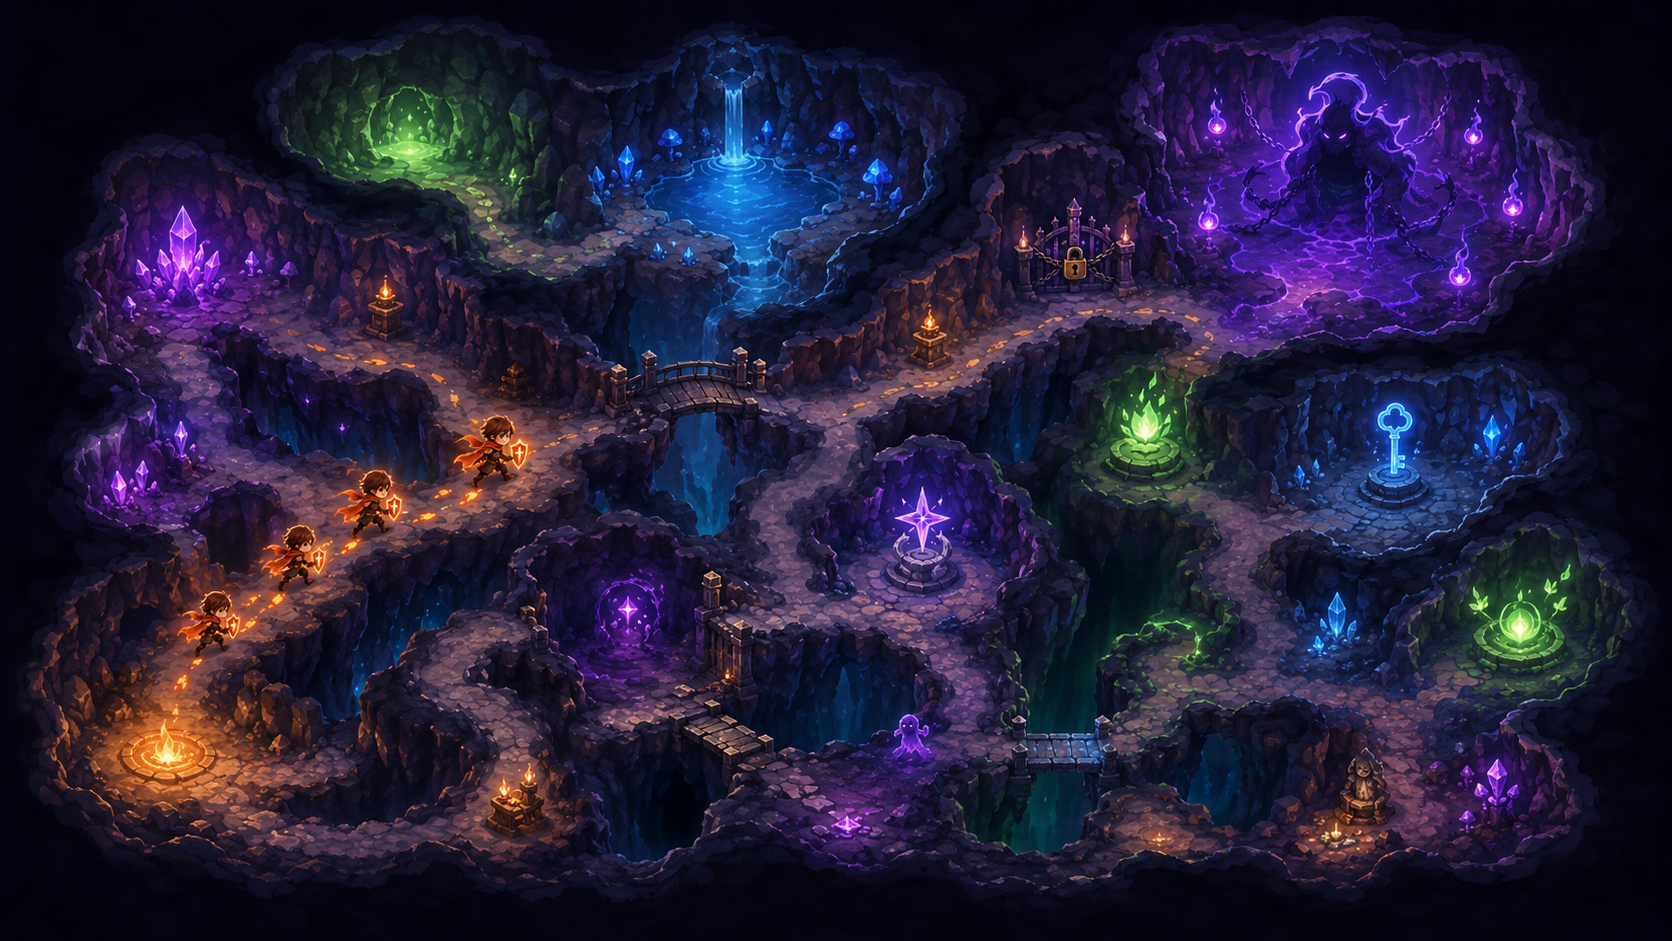
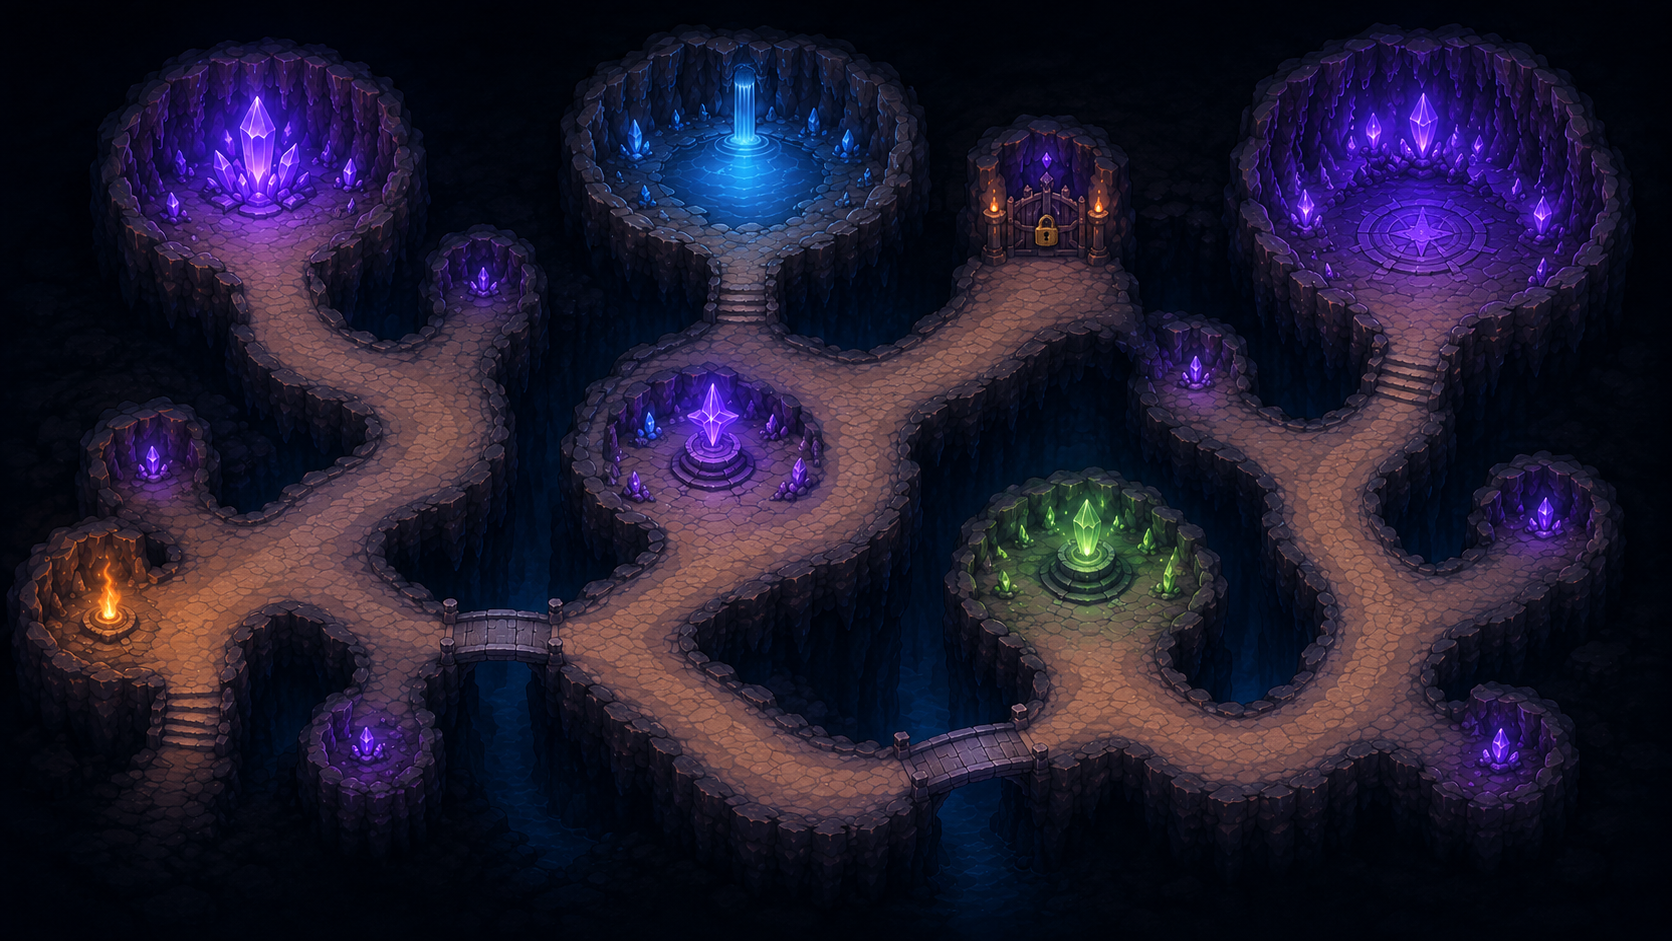
Swap in the clean overworld map (no characters baked in, clearer paths)
Recalculated per-quest mapPath waypoints to match the new layout's
actual road: starting torch (bottom-left) through to the large domed
area top-right for the boss.

diff --git a/src/data/monsters.js b/src/data/monsters.js
@@ -38,7 +38,7 @@ export const QUESTS = [
     origin: '초조(焦燥)',
     entryText: '뚜벅... 뚜벅... 발소리가 축축한 바닥에 부딪혀 울린다.\n동굴 안쪽 통로, 공기가 점점 무거워진다.\n저 멀리서 규칙적으로 톡, 톡, 톡— 무언가 두드리는 소리가 들려온다.',
     // % position on scene_overworld_map.png the walker travels between as the corridor progresses
-    mapPath: { from: [12, 85], to: [28, 62] },
+    mapPath: { from: [6, 64], to: [28, 45] },
     sideDiscoveries: [
       '바닥에 손톱으로 그은 듯한 짧은 선들이 줄지어 있다. 하루를 세던 흔적 같다.',
       '멈춰버린 낡은 시계가 벽에 걸려 있다. 오래전에 시간이 멈춘 듯하다.',
@@ -99,7 +99,7 @@ export const QUESTS = [
     poses: { idle: q2Idle, attack: q2Attack, defeat: q2Defeat },
     origin: '메아리(반복 되울림)',
     entryText: '조금 더 걸어 들어가자, 통로가 점점 좁아진다.\n발끝에 차가운 물웅덩이가 밟힌다.\n그리고, 벽에 부딪혀 되돌아오는 목소리가 들린다 — 같은 말이 자꾸만 반복된다.',
-    mapPath: { from: [28, 62], to: [46, 45] },
+    mapPath: { from: [28, 45], to: [43, 40] },
     sideDiscoveries: [
       '벽에 귀를 대보니, 아주 희미하게 같은 말이 계속 맴돈다.',
       '누군가 새겨놓은 글씨 — "내 말 좀 들어줘" — 여러 번 덧새겨져 있다.',
@@ -162,7 +162,7 @@ export const QUESTS = [
     poses: { idle: q3Idle, attack: q3Attack, defeat: q3Defeat },
     origin: '굴레(속박, 제자리 맴돌기)',
     entryText: '통로가 아래로 이어진다. 어딘가에서 쇠사슬이 끌리는 소리가 들린다.\n한 걸음씩 내디딜 때마다, 소리는 점점 가까워진다.\n곧, 사슬로 스스로를 옭아맨 무언가가 제자리를 맴도는 모습이 보인다.',
-    mapPath: { from: [46, 45], to: [64, 32] },
+    mapPath: { from: [43, 40], to: [63, 20] },
     sideDiscoveries: [
       '여러 겹으로 겹쳐 쓰인 이름들이 보인다. 다들 이 일에서 발을 뺀 듯하다.',
       '사슬 끝에 작은 팻말이 매달려 있다 — "내 담당 아님"',
@@ -233,7 +233,7 @@ export const BOSS = {
   poses: { idle: bossIdle, attack: bossAttack, defeat: bossDefeat },
   origin: '잔향(殘響, 사라지지 않는 울림)',
   entryText: '가장 깊은 곳. 공기마저 멈춘 듯 고요하다.\n여러 겹의 흐릿한 형체가 겹쳐 보인다 — 앞서 만난 셋의 잔상이 그 위로 스친다.',
-  mapPath: { from: [64, 32], to: [83, 18] },
+  mapPath: { from: [63, 20], to: [85, 15] },
   sideDiscoveries: [
     '여러 목소리가 겹쳐 들리다가, 한 목소리로 잦아든다.',
     '바닥에 흩어진 발자국들이 모두 같은 곳에서 시작된 것 같다.',
